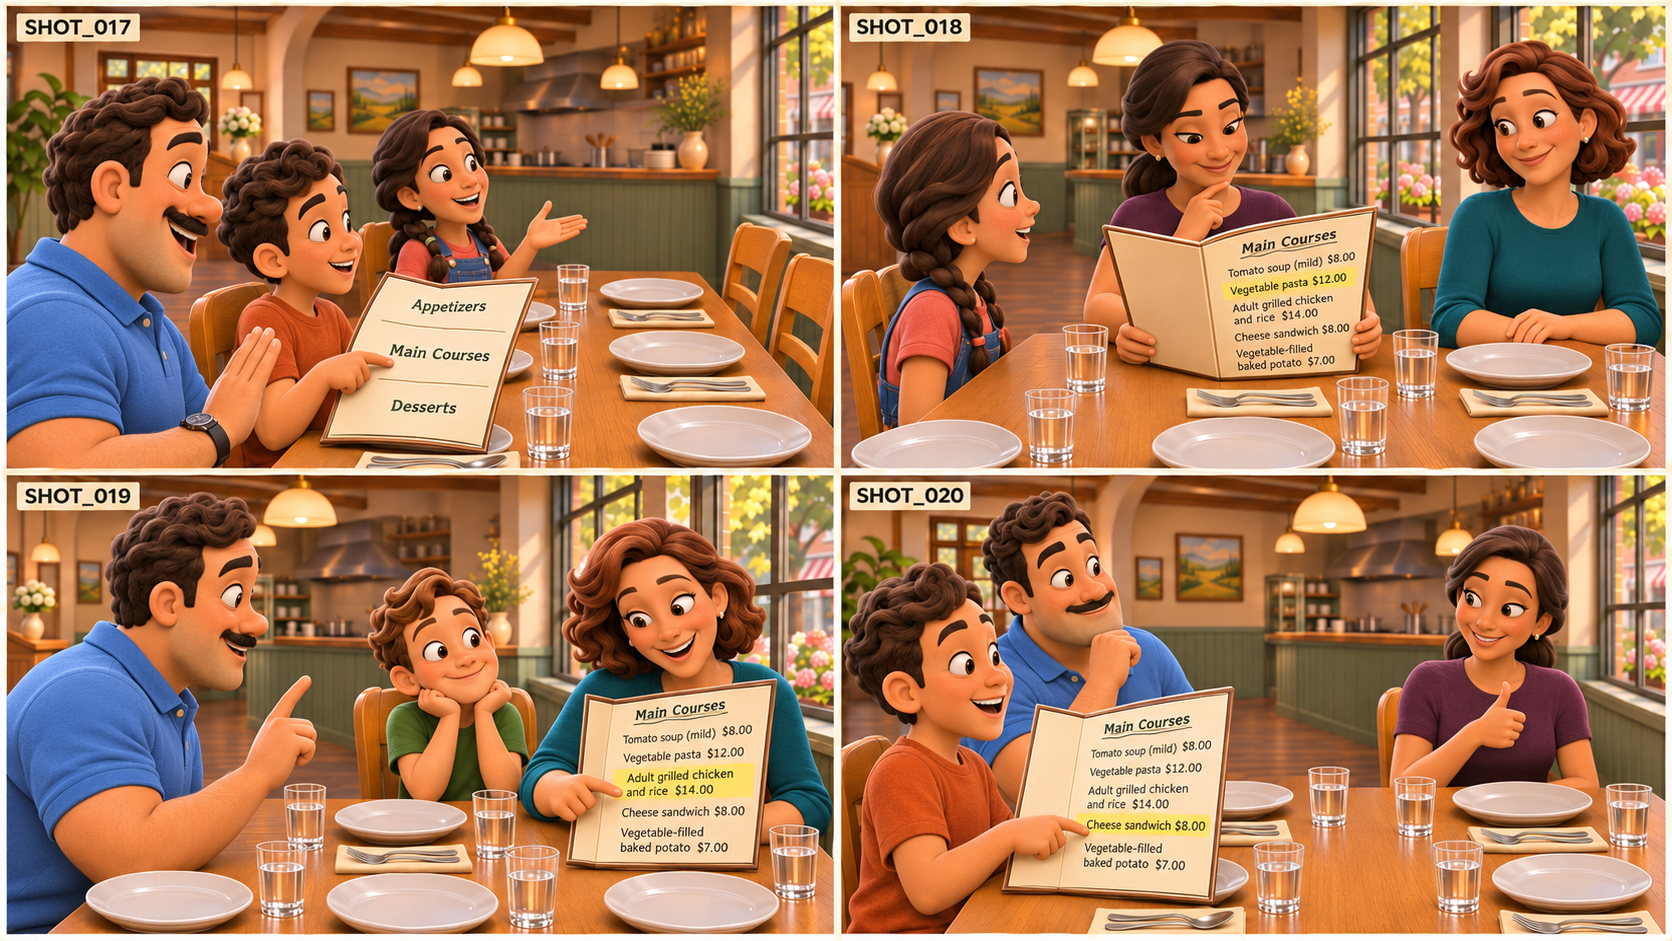
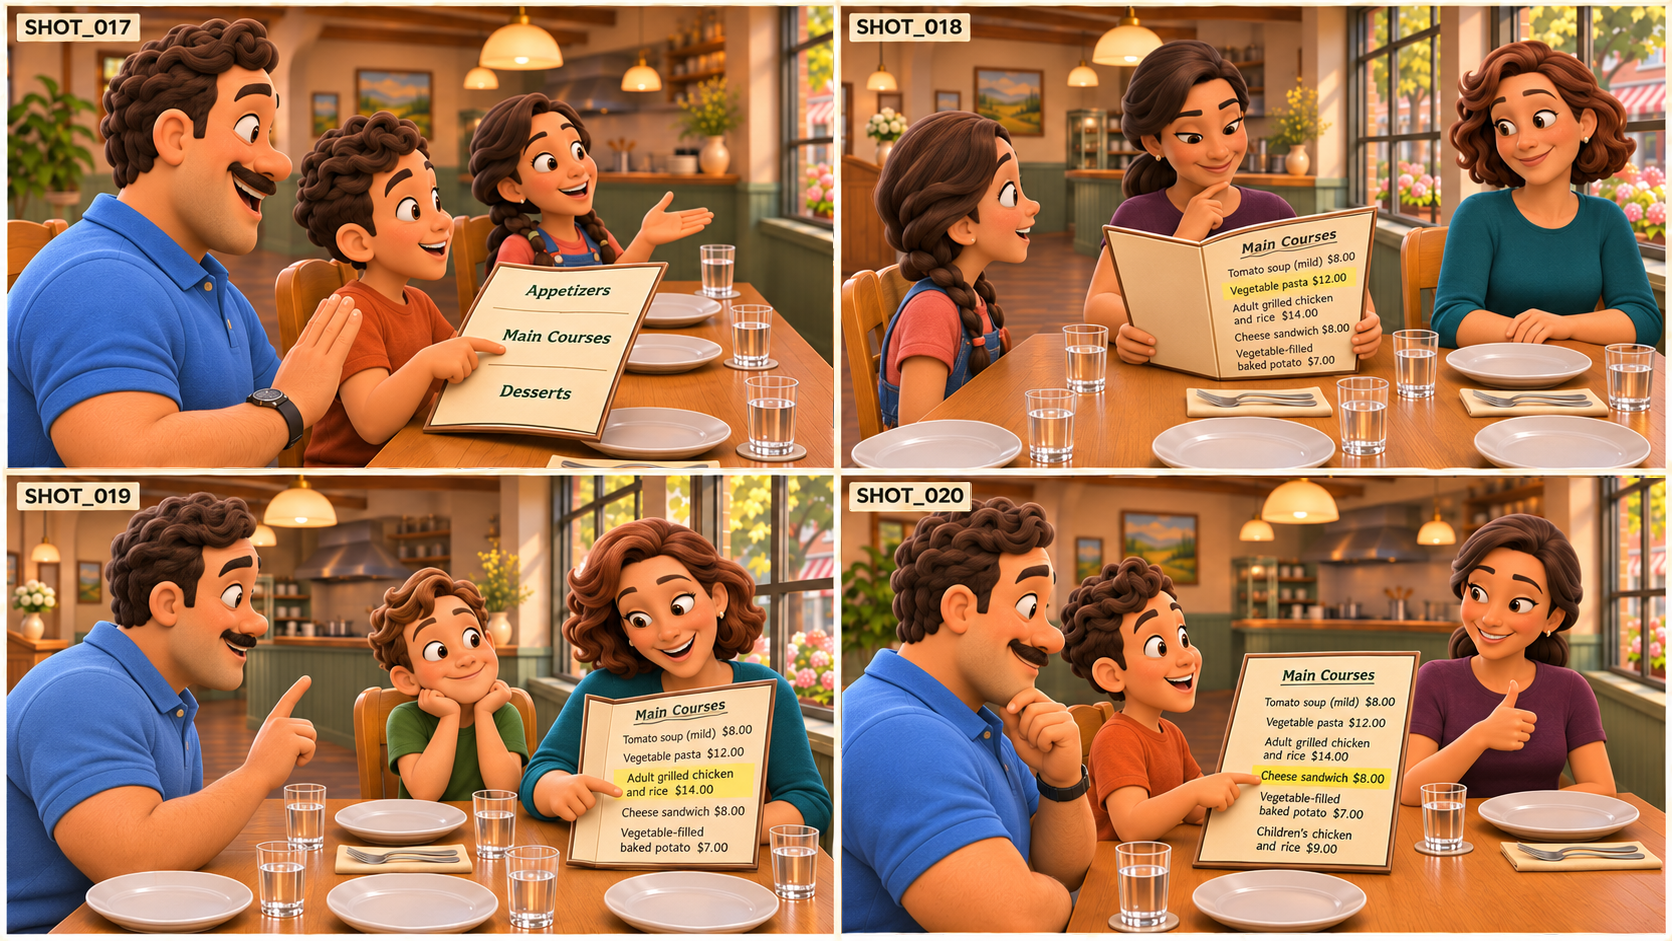
Repair Episode 06 shots 017 and 020 with pixel-bound QA

diff --git a/CURRENT_PRODUCTION_STATUS.md b/CURRENT_PRODUCTION_STATUS.md
@@ -2,13 +2,17 @@
 
 ## Creator review — 2026-11-22
 
-The creator confirmed review and acceptance of all 619 shots listed as `NEEDS_HUMAN_REVIEW` in the [ten shot ledgers at the reviewed revision](https://github.com/pujahalder34675-creator/ai-story-building/tree/80644c168bdc14105e38708a4fd9c1068bacc387/docs/qa). This approval covers the storyboard pixels identified by those ledger hashes. The other 181 shots across 103 sheets still have open visual defects. Replacement pixels require their own review.
+The creator confirmed review and acceptance of all 619 shots listed as `NEEDS_HUMAN_REVIEW` in the [ten shot ledgers at the reviewed revision](https://github.com/pujahalder34675-creator/ai-story-building/tree/80644c168bdc14105e38708a4fd9c1068bacc387/docs/qa). This approval covers the storyboard pixels identified by those ledger hashes. At that reviewed revision, the other 181 shots across 103 sheets had open visual defects. Replacement pixels require their own review.
+
+## Branch repair checkpoint — 2026-11-22
+
+The live queue now has **179 FAIL shots across 103 sheets**. Episode 06 BOARD_05 shots **017 and 020** have repaired pixels awaiting new creator approval. Shots 018 and 019 retain their parent pixels and remain FAIL. The original 619 approved shots are unchanged. All 621 historical/current NEEDS_HUMAN_REVIEW ledger rows must be interpreted with this approval scope; they are not 621 unapproved images. See the [recovery record](artwork_qa/records/ep06-board05-aisle-framing-and-seat-order.json).
 
 ## 15-second clips and storyboard repairs — 2026-11-21
 
 The 800 clips have 3,228 dialogue turns across ten 20-minute episodes. Each clip has four or five turns. The provisional speaker windows start at 0.25 seconds and allow the final action or reaction to carry into the cut. Each episode’s screenplay, video prompts and subtitles use the same dialogue. The [episode index](README.md#episodes) links directly to the prompts and each episode’s shot findings.
 
-The [image repair log](docs/STORYBOARD_REPAIR_LOG.md) identifies the selected replacement sheets. Current QA records list 181 major visual discrepancies and 619 shots awaiting human review. [Individual findings](docs/qa/) name the correction and the image hash for each panel. Use the [November 19 audit](docs/AUDIT_EP01_EP10.md) for the earlier review.
+The [image repair log](docs/STORYBOARD_REPAIR_LOG.md) identifies the selected replacement sheets. Current QA records list 179 major visual discrepancies and 621 review-status rows; the approval scope above distinguishes 619 accepted shots from 2 new replacements. [Individual findings](docs/qa/) name the correction and the image hash for each panel. Use the [November 19 audit](docs/AUDIT_EP01_EP10.md) for the earlier review.
 
 ## Audit branch validation — 2026-11-19
 

diff --git a/docs/STORYBOARD_REPAIR_LOG.md b/docs/STORYBOARD_REPAIR_LOG.md
@@ -69,7 +69,8 @@ The active request is to fix the selected storyboard PNGs themselves. Video-prom
 | 07 / BOARD_11 | Keep Leo’s umbrella backpack with him at the northbound shelter | [Selected sheet](../Episode_07/assets/storyboards/BOARD_11.png) · [Correction record](../artwork_qa/records/ep07-board11-one-umbrella-at-northbound-stop.json) |
 | 10 / BOARD_08 | Restore the handset and distinguish the driver’s address from the printed confirmation | [Selected sheet](../Episode_10/assets/storyboards/BOARD_08.png) · [Correction record](../artwork_qa/records/ep10-board08-phone-and-printed-confirmation.json) |
 | 08 / BOARD_11 | Keep Maya’s pair on the mat and attach a single MAYA tag | [Selected sheet](../Episode_08/assets/storyboards/BOARD_11.png) · [Correction record](../artwork_qa/records/ep08-board11-one-maya-tag.json) |
+| 06 / BOARD_05 | Tightened 017 to exclude empty opposite seats and restored Dan-before-Leo depth order in 020. Original 018/019 remain pixel-identical and FAIL. | [Selected sheet](../Episode_06/assets/storyboards/BOARD_05.png) · [Correction record](../artwork_qa/records/ep06-board05-aisle-framing-and-seat-order.json) |
 
-Current QA inventory: **181 shots with major visual defects; 619 awaiting human review**. Selected repairs remove only the visually verified discrepancies recorded above. Creator acceptance and individual motion-frame approval remain pending. Other storyboard defects have not been declared fixed.
+Current QA inventory: **179 shots with major visual defects across 103 sheets; 621 ledger rows marked NEEDS_HUMAN_REVIEW**. Of those review rows, 619 retain creator approval at the November 22 baseline; 2 replacement shots (Episode 06: 017 and 020) await new approval. Selected repairs remove only the visually verified discrepancies recorded above. Creator acceptance and individual motion-frame approval remain pending. Other storyboard defects have not been declared fixed.
 
 Each selected edit preserves the prior image through its parent Git commit, retains the returned ImageGen source, updates all four panel evidence hashes and records what was visually confirmed. The Episode 01 printed-label audit is refreshed against the new pixels. Corrections are committed and pushed as checkpoints before requesting the next image.
